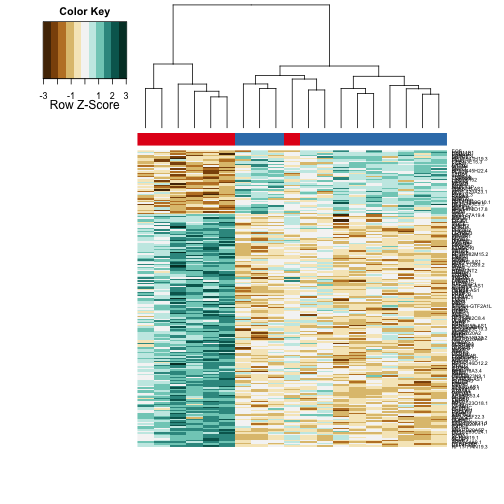
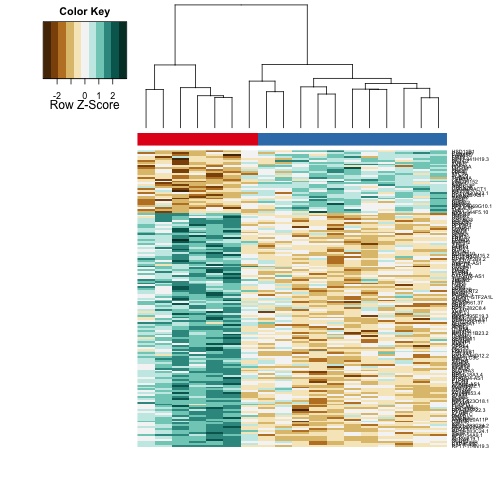
Updated heatmap script (already had removed sample 29)

diff --git a/scripts/heatmaps.md b/scripts/heatmaps.md
@@ -15,35 +15,31 @@ Statistics
 ## cite
 ```
 
-This file was most recently processed on ``Wed Sep  4 11:58:34 2013``.  This uses the genes which were subsetted (only the highest 40\%).  Also, this uses the DESeq normalized data.
+This file was most recently processed on ``Wed Sep 18 08:05:46 2013``.  This uses the genes which were subsetted (only the highest 40\%).  Also, this uses the DESeq normalized data.
 
 Data Clustering
 ----------------
 The following is a cluster analysis of the scaled transcript counts.  This was done with bootstrap resampling of the normalized, scaled transcript counts using the **pvclust** package(<a href="http://CRAN.R-project.org/package=pvclust">Suzuki & Shimodaira, 2011</a>)). 
 
+```{clustering, echo=FALSE, dev=c('png','pdf'), echo=FALSE, fig.show='asis'}
+#scaled the data
+scaled.sample.transcript.counts <- scale(filtered.transcript.counts)
 
+#cluster number determination (see http://www.statmethods.net/advstats/cluster.html)
+wss <- (nrow(scaled.sample.transcript.counts)-1)*sum(apply(scaled.sample.transcript.counts,2,var))
+for (i in 2:15) wss[i] <- sum(kmeans(scaled.sample.transcript.counts, 
+     centers=i)$withinss)
+plot(1:15, wss, type="b", xlab="Number of Clusters",
+  ylab="Within groups sum of squares",
+     main="Cluster Number Determination (3)")
+
+library(pvclust)
+fit <- pvclust(scaled.sample.transcript.counts, method.hclust="ward",
+   method.dist="euclidean")
+plot(fit) # dendogram with p values
+# add rectangles around groups highly supported by the data
+pvrect(fit, alpha=.95)
 ```
-## Warning: did not converge in 10 iterations Warning: did not converge in 10
-## iterations Warning: did not converge in 10 iterations
-```
-
-![plot of chunk clustering](figure/clustering1.png) 
-
-```
-## Bootstrap (r = 0.5)... Done.
-## Bootstrap (r = 0.6)... Done.
-## Bootstrap (r = 0.7)... Done.
-## Bootstrap (r = 0.8)... Done.
-## Bootstrap (r = 0.9)... Done.
-## Bootstrap (r = 1.0)... Done.
-## Bootstrap (r = 1.1)... Done.
-## Bootstrap (r = 1.2)... Done.
-## Bootstrap (r = 1.3)... Done.
-## Bootstrap (r = 1.4)... Done.
-```
-
-![plot of chunk clustering](figure/clustering2.png) 
-
 
 
 Differentially Expressed Genes
@@ -112,8 +108,8 @@ sessionInfo()
 ## other attached packages:
 ##  [1] RColorBrewer_1.0-5  gplots_2.11.3       MASS_7.3-28        
 ##  [4] KernSmooth_2.23-10  caTools_1.14        gdata_2.13.2       
-##  [7] gtools_3.0.0        pvclust_1.2-2       knitcitations_0.5-0
-## [10] bibtex_0.3-6        knitr_1.4          
+##  [7] gtools_3.0.0        knitcitations_0.5-0 bibtex_0.3-6       
+## [10] knitr_1.4          
 ## 
 ## loaded via a namespace (and not attached):
 ##  [1] bitops_1.0-5   digest_0.6.3   evaluate_0.4.7 formatR_0.9   
